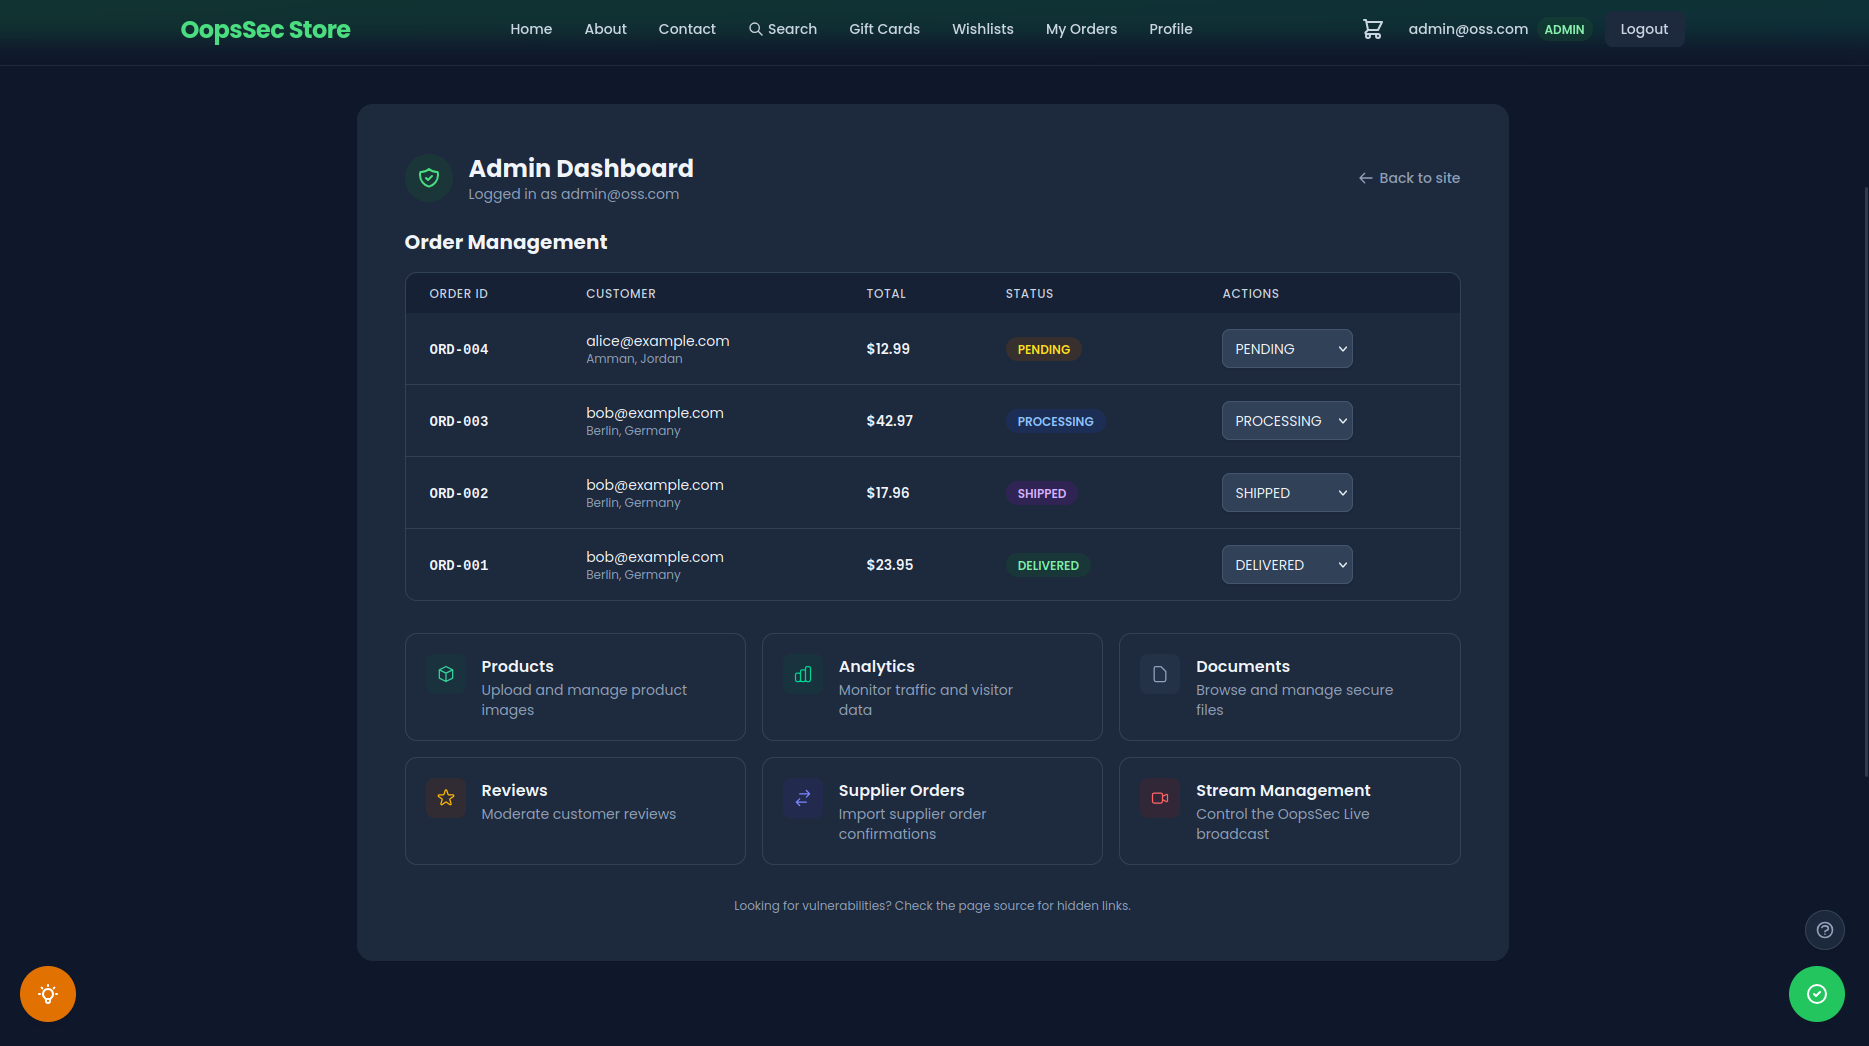
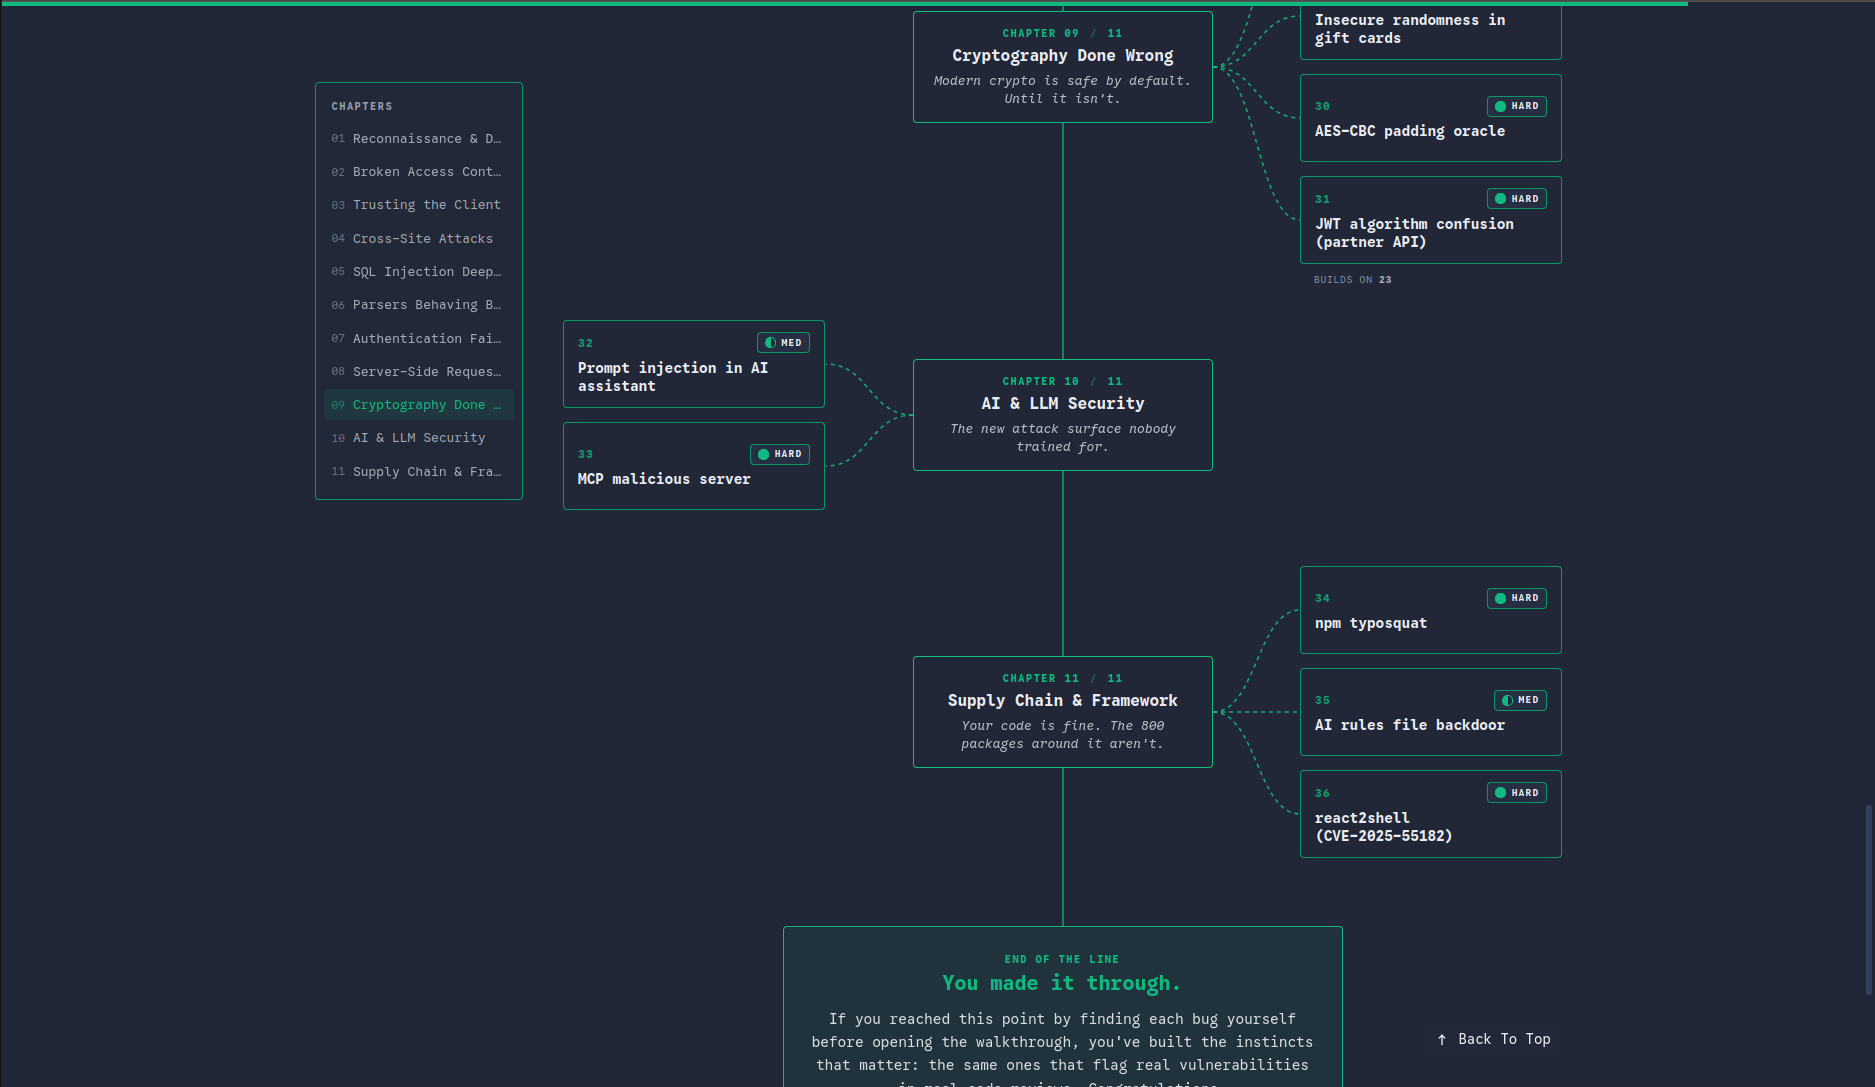
docs: add a getting started section and VWAD/TryHackMe badges

diff --git a/README.md b/README.md
@@ -7,11 +7,15 @@
 <div align="center">
 
 <p>
-<b>Security training for the apps you actually ship.</b><br>
+<b>Security training for the apps you actually ship.</b>
+</p>
+<p>
+36 challenges across <b>web, API, authentication, business logic, cryptography, supply chain, AI agents and MCP</b>.
+</p>
+<p>
 Break a deliberately vulnerable e-commerce app built on <b>Next.js, React, TypeScript and Prisma</b>.<br>
 Find the bugs. Exploit them. Understand why they work.
 </p>
-<p>36 challenges across <b>web, API, authentication, business logic, cryptography, supply chain, AI agents and MCP</b>.</p>
 
 <p>
 <a href="https://hub.docker.com/r/leogra/oss-oopssec-store">Docker Hub</a> ·
@@ -22,10 +26,13 @@ Find the bugs. Exploit them. Understand why they work.
 <a href="https://github.com/users/kOaDT/projects/3/views/6">Good first issues</a>
 </p>
 
+[![OWASP VWAD](https://img.shields.io/badge/OWASP-VWAD-000000?style=flat-square&logo=owasp&logoColor=white)](https://vwad.owasp.org/app/oopssec-store/)
+[![TryHackMe room](https://img.shields.io/badge/TryHackMe-The_Summer_Audit-212C42?style=flat-square&logo=tryhackme&logoColor=white)](https://tryhackme.com/jr/oopssecstorethesummeraudit)
+![Intentionally Vulnerable](https://img.shields.io/badge/⚠_Intentionally-Vulnerable-red?style=flat-square)
+<br>
 [![GitHub license](https://img.shields.io/github/license/kOaDT/oss-oopssec-store?style=flat-square)](https://github.com/kOaDT/oss-oopssec-store/blob/main/LICENSE)
 [![PRs Welcome](https://img.shields.io/badge/PRs-welcome-brightgreen?style=flat-square)](https://github.com/kOaDT/oss-oopssec-store/pulls)
 [![Good first issues](https://img.shields.io/badge/Good_first-issues-7057ff?style=flat-square)](https://github.com/users/kOaDT/projects/3/views/6)
-![Intentionally Vulnerable](https://img.shields.io/badge/⚠_Intentionally-Vulnerable-red?style=flat-square)
 <br>
 [![GitHub stars](https://img.shields.io/github/stars/kOaDT/oss-oopssec-store?style=social)](https://github.com/kOaDT/oss-oopssec-store/stargazers)
 [![GitHub forks](https://img.shields.io/github/forks/kOaDT/oss-oopssec-store?style=social)](https://github.com/kOaDT/oss-oopssec-store/network)
@@ -55,21 +62,21 @@ docker run -p 127.0.0.1:3000:3000 leogra/oss-oopssec-store
 <tr>
 <td width="50%" align="center">
 <a href="public/oopssec-store-storefront-0.png"><img src="public/oopssec-store-storefront-0.png" alt="OopsSec Store storefront" width="100%"></a>
-<br><sub><b>Storefront</b> — the e-commerce app you are attacking</sub>
+<br><sub><b>Storefront</b> · the e-commerce app you are attacking</sub>
 </td>
 <td width="50%" align="center">
 <a href="public/oopssec-store-storefront-1.png"><img src="public/oopssec-store-storefront-1.png" alt="Player dashboard tracking captured flags" width="100%"></a>
-<br><sub><b>Player dashboard</b> — progress, difficulty and category breakdown</sub>
+<br><sub><b>Player dashboard</b> · progress, difficulty and category breakdown</sub>
 </td>
 </tr>
 <tr>
 <td width="50%" align="center">
 <a href="public/oopssec-store-storefront-2.png"><img src="public/oopssec-store-storefront-2.png" alt="OSSBot AI customer support assistant" width="100%"></a>
-<br><sub><b>OSSBot</b> — the AI support assistant you prompt-inject</sub>
+<br><sub><b>OSSBot</b> · the AI support assistant you prompt-inject</sub>
 </td>
 <td width="50%" align="center">
-<a href="public/oopssec-store-storefront-3.png"><img src="public/oopssec-store-storefront-3.png" alt="Admin dashboard with order management" width="100%"></a>
-<br><sub><b>Admin dashboard</b> — the privilege escalation target</sub>
+<a href="public/oopssec-store-storefront-3.png"><img src="public/oopssec-store-storefront-3.png" alt="Challenge roadmap across 11 chapters" width="100%"></a>
+<br><sub><b>Roadmap</b> · the bugs that ship in production code</sub>
 </td>
 </tr>
 </table>
@@ -77,6 +84,58 @@ docker run -p 127.0.0.1:3000:3000 leogra/oss-oopssec-store
 <sub>Click any screenshot to view it full size.</sub>
 
 </div>
+
+---
+
+## Getting started
+
+<table>
+<tr>
+<td width="56" align="center" valign="top"><img src="https://img.shields.io/badge/1-15803d?style=for-the-badge" alt="Step 1"></td>
+<td valign="top">
+<b>Start the lab</b><br>
+<code>npx create-oss-store my-ctf-lab &amp;&amp; cd my-ctf-lab &amp;&amp; npm start</code><br>
+<sub>Or <a href="#docker">run it with Docker</a>. The store comes up on <a href="http://localhost:3000">localhost:3000</a>.</sub>
+</td>
+</tr>
+<tr>
+<td width="56" align="center" valign="top"><img src="https://img.shields.io/badge/2-15803d?style=for-the-badge" alt="Step 2"></td>
+<td valign="top">
+<b>Go after challenge #1</b><br>
+<a href="http://localhost:3000/vulnerabilities/public-env-variable">Public env variable leak</a>: a payment secret that Next.js bakes into the client bundle.<br>
+<sub>Easy · 15–20 min · nothing but your browser devtools.</sub>
+</td>
+</tr>
+<tr>
+<td width="56" align="center" valign="top"><img src="https://img.shields.io/badge/3-15803d?style=for-the-badge" alt="Step 3"></td>
+<td valign="top">
+<b>Stuck? Read the walkthrough</b><br>
+Every challenge has one, from vulnerability to exploit to fix.<br>
+<sub>The first: <a href="https://koadt.github.io/oss-oopssec-store/posts/next-public-env-variable-leak/">Reading Secrets From the Browser: The NEXT_PUBLIC_ Trap in Next.js</a>.</sub>
+</td>
+</tr>
+<tr>
+<td width="56" align="center" valign="top"><img src="https://img.shields.io/badge/4-15803d?style=for-the-badge" alt="Step 4"></td>
+<td valign="top">
+<b>Validate the flag</b><br>
+Paste <code>OSS{...}</code> into the flag checker, the floating widget on every page.<br>
+<sub>Your <a href="http://localhost:3000/player-dashboard">player dashboard</a> tracks what is left.</sub>
+</td>
+</tr>
+<tr>
+<td width="56" align="center" valign="top"><img src="https://img.shields.io/badge/5-15803d?style=for-the-badge" alt="Step 5"></td>
+<td valign="top">
+<b>Pick the next one</b><br>
+The <a href="https://koadt.github.io/oss-oopssec-store/roadmap">roadmap</a> orders every challenge across chapters: difficulty, time estimate, prerequisites.<br>
+<sub>Take the next card, then back to step 2. ↻</sub>
+</td>
+</tr>
+</table>
+
+> [!TIP]
+> All captured? [Join the Hall of Fame](#hall-of-fame), star the repo, and post your route in [Show your solve](https://github.com/kOaDT/oss-oopssec-store/discussions/categories/show-your-solve).
+
+<sub>New to offensive security? The <a href="https://tryhackme.com/jr/oopssecstorethesummeraudit">TryHackMe room</a> wraps the first flags in a guided narrative.</sub>
 
 ---
 
@@ -108,7 +167,7 @@ docker run -p 127.0.0.1:3000:3000 leogra/oss-oopssec-store
 - REST API with documented attack vectors
 - 36 CTF challenges across 11 chapters, laid out as a structured [learning roadmap](https://koadt.github.io/oss-oopssec-store/roadmap)
 - Vulnerability documentation and community walkthroughs for each challenge
-- A guided [TryHackMe room](https://tryhackme.com/jr/oopssecstorethesummeraudit) — _The Summer Audit_, 8 tasks and 7 flags, as a narrative on-ramp for newcomers
+- A guided [TryHackMe room](https://tryhackme.com/jr/oopssecstorethesummeraudit): _The Summer Audit_, 8 tasks and 7 flags, as a narrative on-ramp for newcomers
 - Automated tests that verify exploits still work (PRs that accidentally fix a vuln will fail CI)
 
 ## Why OopsSec Store?
@@ -129,7 +188,7 @@ The curriculum also covers the attack surface that arrived with AI-assisted deve
 | LLM prompt injection                           | ✅ Plug in a free API key                               | ✅ v20+, bring & configure your own LLM | ❌                        |
 | MCP tool poisoning                             | ✅                                                      | ❌                                      | ❌                        |
 | AI coding-agent backdoor (poisoned rules file) | ✅                                                      | ❌                                      | ❌                        |
-| Supply-chain attack chain                      | ✅ Simulated end to end: npm typosquat → rules backdoor | Partial — identification only           | ❌                        |
+| Supply-chain attack chain                      | ✅ Simulated end to end: npm typosquat → rules backdoor | Partial (identification only)           | ❌                        |
 | Challenges built on real CVEs                  | ✅                                                      | ❌                                      | ❌                        |
 | Hall of Fame for players                       | ✅                                                      | ❌                                      | ❌                        |
 
@@ -223,7 +282,7 @@ Questions, solutions and feedback live in [Discussions](https://github.com/kOaDT
 | `app/vulnerabilities/`     | Pages documenting each vulnerability                                                               |
 | `content/vulnerabilities/` | Markdown descriptions of vulnerabilities and attack vectors                                        |
 | `lib/`                     | Shared utilities: DB client, auth, API helpers, types                                              |
-| `prisma/`                  | Database schema, seed script, and `flags.ts` — the CTF flags and their hints                       |
+| `prisma/`                  | Database schema, seed script, and `flags.ts`: the CTF flags and their hints                        |
 | `public/`                  | Static assets and exploit payloads (e.g., CSRF demo)                                               |
 | `hooks/`                   | Custom React hooks (authentication, etc.)                                                          |
 | `scripts/`                 | Setup and automation scripts                                                                       |
